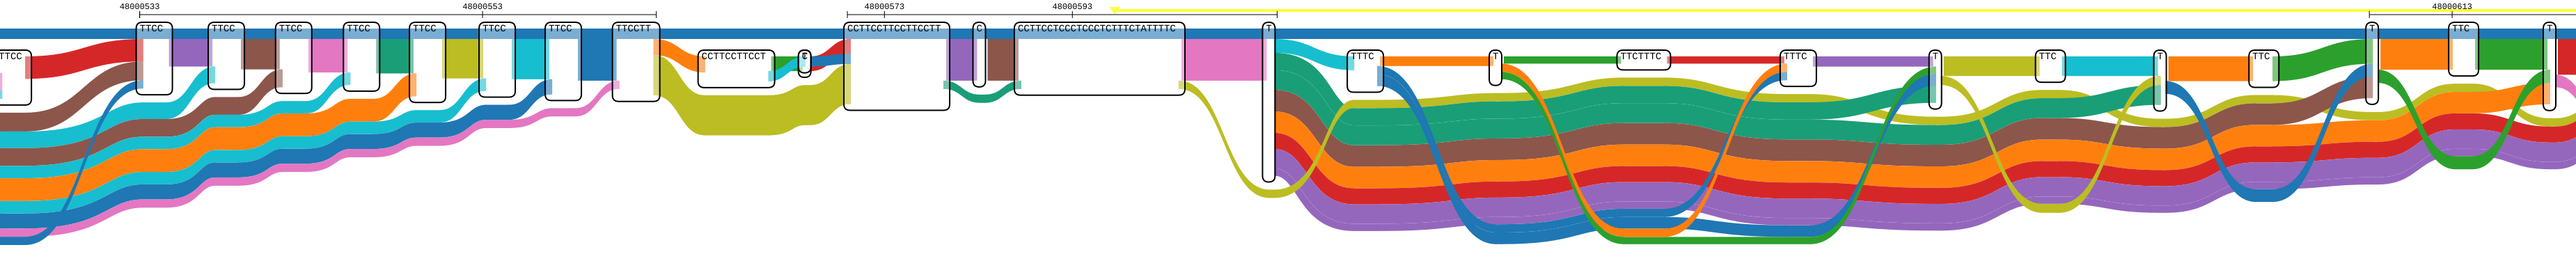
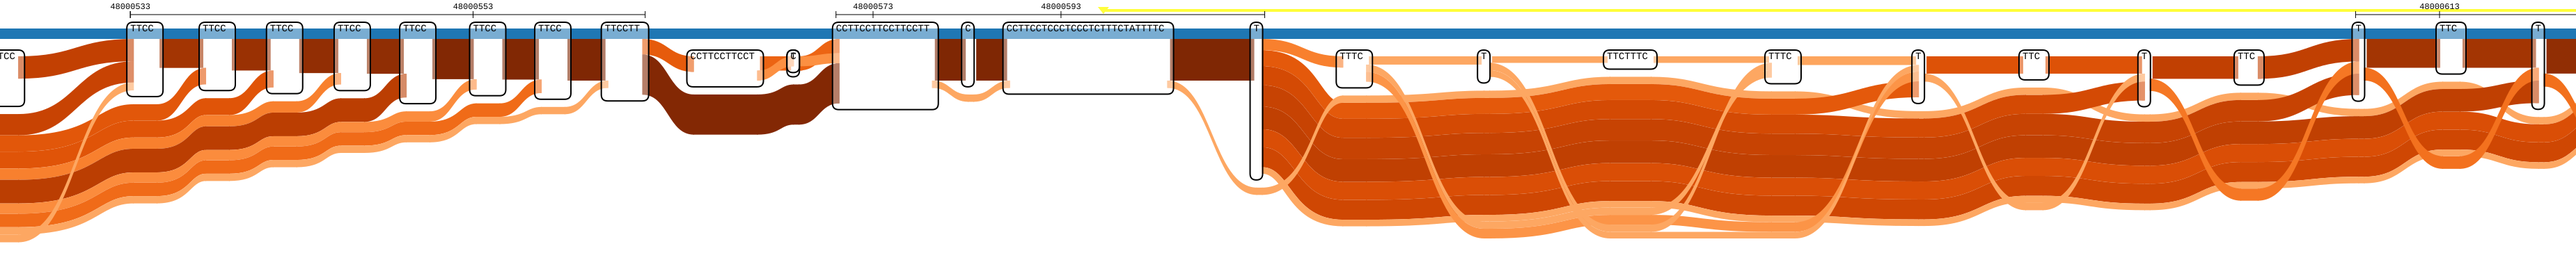
Regenerate the README chr20 figures with share-shaded bands

diff --git a/doc/headless-rendering.md b/doc/headless-rendering.md
@@ -173,15 +173,16 @@ that comes out 23835 by 1549 units — too wide for a page, and at that many lan
 solid color soup: 464 haplotypes read as noise, not signal. `--coarsened` (see
 [View options](#view-options) above) fixes both: with no reads loaded, it
 aggregates every haplotype but the reference into one band per node-to-node edge
-instead, so the figure comes out 14144 by 385. The [README](../README.md)'s two
-chr20 figures are crops of it, one over the allele staircase and one where the
-haplotypes come back into register:
+instead, each shaded by its share of the haplotypes, so the figure comes out
+14100 by 374. The [README](../README.md)'s two chr20 figures are crops of it,
+one over the allele staircase and one where the haplotypes come back into
+register:
 
 ```bash
 rsvg-convert -z 1 str.svg -o str.png
 magick str.png -crop 3700x385+1200+0  +repage -background white -flatten \
   doc/images/hprc-v2.1-chr20-str.png
-magick str.png -crop 1300x385+10750+0 +repage -background white -flatten \
+magick str.png -crop 1300x385+10708+0 +repage -background white -flatten \
   doc/images/hprc-v2.1-chr20-register.png
 ```
 

diff --git a/README.md b/README.md
@@ -15,8 +15,9 @@ et al.
 464 HPRC v2.1 haplotypes at a chr20 CT microsatellite — 46 allele lengths, 240
 distinct routes. Read straight from HPRC's 10 GB hosted `.gbz.db` by range
 request: no server, no download. Coarsened (Sankey) view bands the haplotypes by
-node-to-node edge instead of drawing all 464 as separate lines; haplotypes named
-from the companion index (`HG01243#2#…`, not `unknown#57`).
+node-to-node edge instead of drawing all 464 as separate lines, darker the more
+haplotypes take that edge; haplotypes named from the companion index
+(`HG01243#2#…`, not `unknown#57`).
 
 ![HPRC v2.1 chr20 haplotypes in register](doc/images/hprc-v2.1-chr20-register.png)
 
